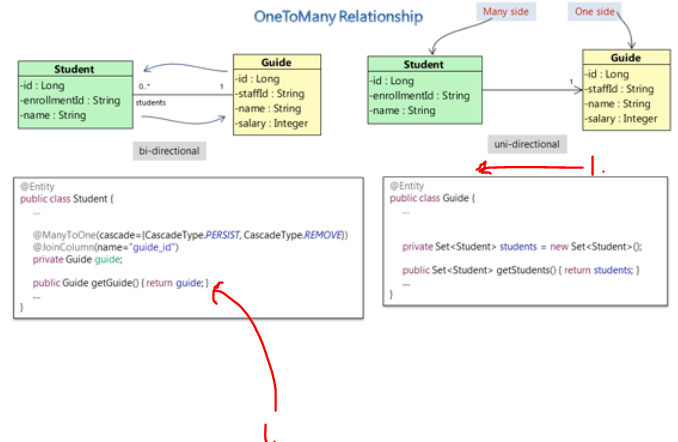
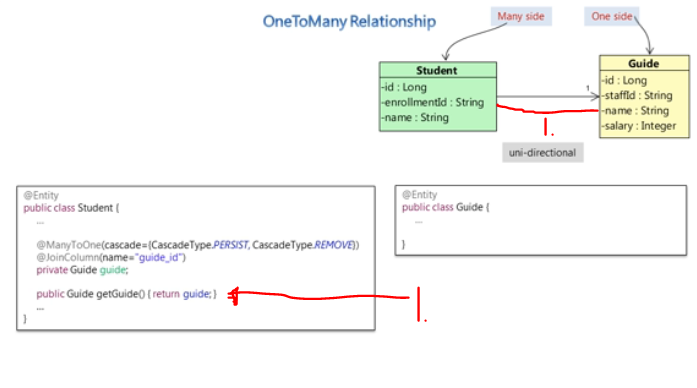
proceeded

Changed region(s): [[0.0, 0.0, 0.9912, 0.9278], [0.0, 0.0, 0.6504, 0.3711], [0.3717, 0.9588, 0.4027, 1.0]]

diff --git a/Java Persistence Hibernate and JPA Fundamentals/Section 04/README.md b/Java Persistence Hibernate and JPA Fundamentals/Section 04/README.md
@@ -383,14 +383,14 @@ Task 1: What will happen to the Student and Guide tables after executing the del
 
 <img src="exceptionWillBeThrownDeleted.PNG"  alt="hibernate course" width="500"/>
 
-1. **Student** with `id` **2** will be deleted, so its **Guide** that its referred. Then there is no guide to refer with `id` **2**. 
-2. You cannot have the following data in the database, where **2** is referring something that does not exist. This situation cannot have this in **relational database**, for this reason **Hibernate** throws `ConstraintViolationException`.
+1. **Student** with `id` **2** will be deleted and its **Guide**, which were referred. There is no guide to refer with `id` **2**. 
+2. You cannot have the following data in the database, where **2** is referring something that does not exist. This situation cannot exist **relational database**, for this reason **Hibernate** throws `ConstraintViolationException`.
 	- This is called:
 		- `Foreign-key Constraint`.
 		- `Referential Integrity Constraint`.
 
 > [!IMPORTANT]
-> Then, how to delete **Student**, without violating the Foreign-key constraint.
+> Then, how we can delete **Student**, without violating the Foreign-key constraint.
 
 <img src="byPassingTheCascadingEffectInHibernate.PNG"  alt="hibernate course" width="500"/>
 
@@ -403,7 +403,117 @@ Task 1: What will happen to the Student and Guide tables after executing the del
  
 <img src="OneToManyRelationship.PNG"  alt="hibernate course" width="600"/>
 
-1. We can go from **Student** to the **Guide**, with the `getGuide()`, but there is no relationship, from **Guide** to the **Student**.
-	- This makes this `uni-directional` relationship.
+1. We can go from **Student** to the **Guide**, with the `getGuide()`, but there is no relationship, from **Guide** to the **Student**. This arrow tells us, that `Student` and the `Guide` is **uni-directional relationship**.
+
+<img src="OneToManyRelationshipRelationshipsBiDirectional.PNG"  alt="hibernate course" width="600"/>
+
+1. Now, when there are fields inside `Guide` for the `Student`'s, this relationship turns to be `bi-directional`.
+
+<img src="OneToManyRelationshipRelationshipsBiDirectionalMapping.PNG"  alt="hibernate course" width="600"/>
+
+1. `@OneToMany(mappedBy = "guide")` is telling Hibernate in what to map by.
+	- In `bi-directional` relationship there needs to be **owner** of the relationship and this is needed to define with the `mappedBy` attribute.
+	- **Owner** of the relationship is responsible for the association column(s) update. 
+
+2. The **Many side** in **One-to-Many** bi-directional relational is (almost) always the **owner** side.
+	- Meaning if the `Student` is update, then the `Student` reference is updated as well. At time of **dirty checking**.
+	- In case of the `Guide` is updated, then references are **not** updated, which not the **owner** of the relationship. At time of **dirty checking**.
+
+
+- **Reminder** that, in JPA (Java Persistence API), `CascadeType` controls how **operations** on a parent entity are **propagated** to its associated child entities. Currently there, were:
+
+| Cascade Type   | Description |
+|----------------|-------------|
+| `PERSIST`      | When the parent is persisted, all associated child entities are also persisted automatically. |
+| `MERGE`        | When the parent is merged (updated), all associated child entities are also merged. |
+| `REMOVE`       | When the parent is deleted, all associated child entities are also deleted. |
+| `REFRESH`      | When the parent is refreshed from the database, the child entities are also refreshed. |
+| `DETACH`       | When the parent is detached from the persistence context, the child entities are detached too. |
+| `ALL`          | Applies all of the above: `PERSIST`, `MERGE`, `REMOVE`, `REFRESH`, and `DETACH`. |
+
+<img src="exampleOfTheBiDirectionalMapping.PNG "  alt="hibernate course" width="600"/>
+
+1. We are adding the `CascadeType.Persist` in to the `inverse end` or `not the owner of the relationship`, to make sure that, when the `Guide` is **persisted**. All its `Student`'s associated with it, are also **persisted**.
+
+- Student Entity.
+
+```
+// Student.java
+package entity;
+
+import javax.persistence.*;
+
+@Entity
+public class Student {
+
+    @Id
+    @GeneratedValue(strategy = GenerationType.AUTO)
+    private Long id;
+
+    @Column(name = "enrollment_id", nullable = false)
+    private String enrollmentId;
+
+    private String name;
+
+    @ManyToOne(cascade = {CascadeType.PERSIST, CascadeType.REMOVE})
+    @JoinColumn(name = "guide_id")
+    private Guide guide;
+
+    public Student() {}
+
+    public Student(String enrollmentId, String name, Guide guide) {
+        this.enrollmentId = enrollmentId;
+        this.name = name;
+        this.guide = guide;
+    }
+
+    public Guide getGuide() { return guide; }
+
+    public void setGuide(Guide guide) { this.guide = guide; }
+}
+```
+
+- Guide Entity.
+
+```
+// Guide.java
+package entity;
+
+import javax.persistence.*;
+import java.util.HashSet;
+import java.util.Set;
+
+@Entity
+public class Guide {
+
+    @Id
+    @GeneratedValue(strategy = GenerationType.AUTO)
+    private Long id;
+
+    @Column(name = "staff_id", nullable = false)
+    private String staffId;
+
+    private String name;
+
+    private Integer salary;
+
+    @OneToMany(mappedBy = "guide", cascade = {CascadeType.PERSIST})
+    private Set<Student> students = new HashSet<>();
+
+    public Guide() {}
+
+    public Guide(String staffId, String name, Integer salary) {
+        this.staffId = staffId;
+        this.name = name;
+        this.salary = salary;
+    }
+
+    public Set<Student> getStudents() { return students; }
+}
+```
+
+<img src="cascadeMappingConfiguration.PNG"  alt="hibernate course" width="600"/>
 
 # Lab Exercise - One-To-Many Relationship.
+
+

diff --git a/Java Persistence Hibernate and JPA Fundamentals/Section 03/README.md b/Java Persistence Hibernate and JPA Fundamentals/Section 03/README.md
@@ -291,10 +291,10 @@ public class Message {
 }
 ```
 
-# 12. Note for Hibernate 6 Users.
+# Note for Hibernate 6 Users.
 
 > [!IMPORTANT]
-> Note when using Hibernate 6 minimum version of Java is 11.
+> Note when using **Hibernate 6** minimum version of Java is **11**.
 
 - And for **Hibernate 6** `Session Factory` we are using **Metadata**. Below example.
 
